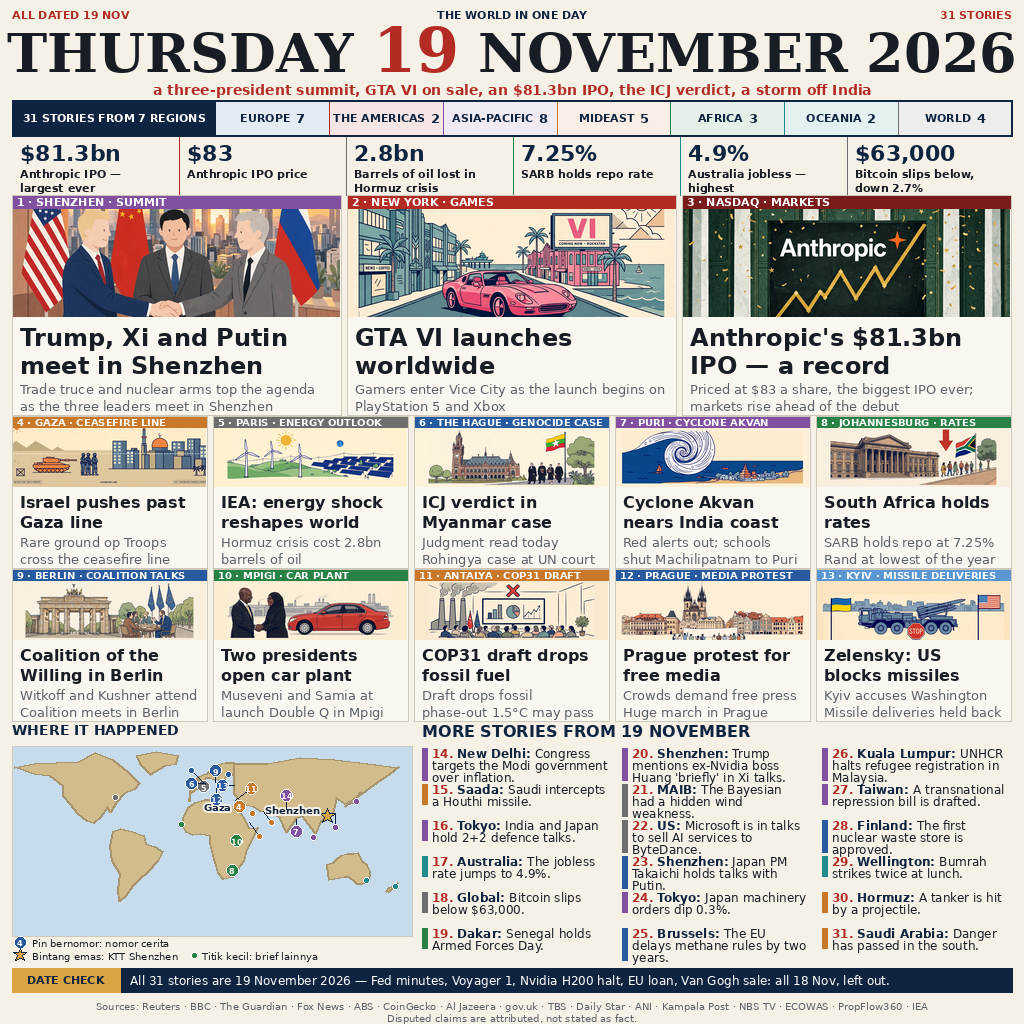
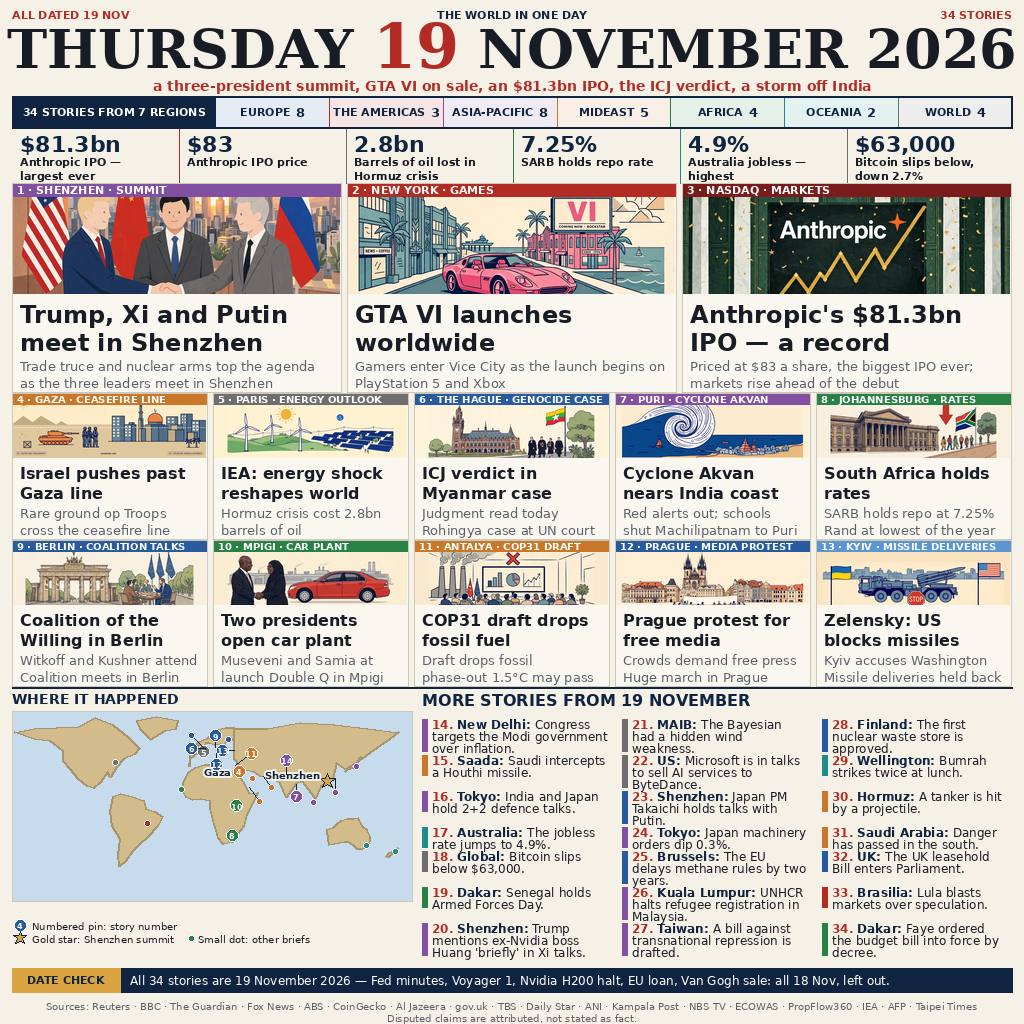
v10 fix: +3 briefs (34 stories), MORE STORIES aligned top-bottom, English legend, divider line
- +3 briefs: 32. UK (leasehold Bill enters Parliament, 19 Nov), 33. Brasilia (Lula blasts markets over speculation, Reuters 19 Nov), 34. Dakar (Faye orders budget into force by decree, AFP/Reuters 19 Nov). TOTAL 31->34; EUROPE 8, AMERICAS 3, AFRICA 4.
- MORE STORIES now 7 rows/col with VARIABLE row heights (tallest brief in the row x leading): all rows start at the same y in all 3 columns; columns start y=719 and end y=956-959 (3px = descender on 'briefly', baselines equal). Row 7 fixed to 3/3/3 lines by lengthening briefs 27 (Taiwan) and 34 (Dakar).
- Fit: masthead 100->96, region bar 36->32, numbers 58->54, hero img 121->110 (box 220->209), card img 70->64 (box 152->146). Briefs stay 12pt; map stays 400x190. Subjects verified whole at display size.
- Small top/bottom margins for MORE STORIES (Kevin 07:28 WIB); thin navy 2px divider above the bottom band (Kevin 07:31 WIB); map legend in English (Kevin 07:29 WIB).
- Rejected after verification: Estonia border shut (announced 15-16 Nov), Spain strike (11 Nov), US senators AI cyber (Reuters 18 Nov), Epstein bill (signed 19 Nov 2025).

diff --git a/compose_v2.py b/compose_v2.py
@@ -157,6 +157,47 @@
 # di ketiga kolom; slack tidak lagi dibagi per kolom (itu yang bikin
 # barisnya zig-zag: kolom 2 rapat 2-6px, kolom 1 renggang 12-16px).
 #
+# v10 changes (20 Nov ~07:30 WIB, Kevin 07:27 + 07:28 + 07:29 + 07:31 WIB):
+#  - +3 brief (total 34 cerita, 21 brief, 7 baris/kolom) supaya 3 kolom
+#    MORE STORIES selaras atas-bawah: London (UK leasehold Bill masuk
+#    Parlemen 19 Nov), Brasilia (Lula kecam pasar atas "spekulasi",
+#    Reuters 19 Nov), Dakar (Faye berlakukan anggaran lewat dekrit,
+#    AFP/Reuters 19 Nov). DITOLAK sesudah verifikasi: Estonia (pengumuman
+#    tutup perbatasan 15-16 Nov, tutupnya 1 Des), Spanyol (mogok umum
+#    11 Nov, bukan 19 Nov), senator AS soal AI (Reuters 18 Nov), Epstein
+#    (RUU diteken 19 Nov 2025, bukan 2026). Region: EUROPE 7->8,
+#    AMERICAS 2->3, AFRICA 3->4; TOTAL 34; DATE CHECK "All 34 stories".
+#  - Baris brief kini TINGGI VARIABEL (baris = brief terpanjang di
+#    baris itu x leading): 6 baris x 36px + 1 baris x 24px = 240px.
+#    Supaya muat, bagian atas dipadatkan 35px TANPA mengecilkan font
+#    dan TANPA mengubah rasio gambar: masthead 100->96, region bar
+#    36->32, numbers strip 58->54, hero image 121->110 (box 220->209),
+#    card image 70->64 (box 152->146). Margin dikit di atas (judul ->
+#    baris pertama) dan di bawah (baris terakhir -> DATE CHECK).
+#  - Legenda peta ke bahasa Inggris (Kevin 07:29 WIB): "Numbered pin:
+#    story number / Gold star: Shenzhen summit / Small dot: other
+#    briefs" — sebelumnya bahasa Indonesia, satu-satunya teks
+#    non-Inggris di gambar. Legenda kini di tengah vertikal di
+#    ruangnya.
+#  - Garis pembatas navy 2px selebar penuh band bawah, tepat di atas
+#    judul WHERE IT HAPPENED / MORE STORIES (Kevin 07:31 WIB).
+#  - Brasilia ditambah ke PLACES (-47.9, -15.8) untuk dot brief 33;
+#    dot brief 32 (label "UK", koordinat London) tabrakan pin Den Haag
+#    (jarak ~5px < 9px) jadi di-skip oleh compositor (tercatat di log);
+#    dot Dakar ke-2 di-skip karena koordinat sama dengan dot Dakar
+#    brief 19. Label brief 32 "UK" (bukan "London") supaya teksnya
+#    muat 2 baris — mengikuti konvensi brief 22 ("US: Microsoft…").
+#    KOREKSI susun kolom: brief baru 32-34 masuk kolom 3 (bukan baris
+#    ke-7 tiap kolom) — baris ke-7 = brief 20, 27, 34. Brief 20
+#    (Shenzhen) 3 baris, jadi brief 27 dan 34 DIPERPANJANG kalimatnya
+#    supaya sama-sama 3 baris dan ketiga kolom berakhir di y yang
+#    sama: 27 "A bill against transnational repression is drafted."
+#    (MOJ kirim draf amandemen Anti-Infiltration Act ke Cabinet;
+#    diumumkan di sidang 18 Nov, dilapor Taipei Times 19 Nov) dan 34
+#    "Faye ordered the budget bill into force by decree." (AFP/
+#    Reuters 19 Nov). Baris ke-7 kini 3/3/3 baris; jumlah baris
+#    total tetap 240px, anggaran band tidak berubah.
+#
 # Run:  python3 compose_v2.py   (needs Pillow; writes entry.png here)
 # The entrypoint main.py only copies entry.png — it never re-renders.
 
@@ -213,8 +254,8 @@ SANS = "/usr/share/fonts/truetype/dejavu/DejaVuSans.ttf"
 
 # ---- geometry (B-rev1, unchanged) ----
 GAP = 1
-HERO_H, HERO_IMG, HERO_HEAD, HERO_DECK = 220, 121, 24, 13
-CARD_H, CARD_IMG, CARD_HEAD, CARD_SUM = 152, 70, 16, 13
+HERO_H, HERO_IMG, HERO_HEAD, HERO_DECK = 209, 110, 24, 13
+CARD_H, CARD_IMG, CARD_HEAD, CARD_SUM = 146, 64, 16, 13
 MAP_W = 400
 BRIEF_NCOLS = 3
 BRIEF_SIZE, BRIEF_LH = 14, 16
@@ -309,11 +350,14 @@ BRIEFS = [
     ("Tokyo", "ASIA", "Japan machinery orders dip 0.3%."),
     ("Brussels", "EUROPE", "The EU delays methane rules by two years."),
     ("Kuala Lumpur", "ASIA", "UNHCR halts refugee registration in Malaysia."),
-    ("Taiwan", "ASIA", "A transnational repression bill is drafted."),
+    ("Taiwan", "ASIA", "A bill against transnational repression is drafted."),
     ("Finland", "EUROPE", "The first nuclear waste store is approved."),
     ("Wellington", "OCEANIA", "Bumrah strikes twice at lunch."),
     ("Hormuz", "MIDEAST", "A tanker is hit by a projectile."),
     ("Saudi Arabia", "MIDEAST", "Danger has passed in the south."),
+    ("UK", "EUROPE", "The UK leasehold Bill enters Parliament."),
+    ("Brasilia", "AMERICAS", "Lula blasts markets over speculation."),
+    ("Dakar", "AFRICA", "Faye ordered the budget bill into force by decree."),
 ]
 
 # Big numbers strip (number, caption, region of the divider colour).
@@ -326,16 +370,16 @@ NUMBERS = [
     ("$63,000", "Bitcoin slips below, down 2.7%", "WORLD"),
 ]
 
-COUNTS = [("EUROPE", 7), ("THE AMERICAS", 2), ("ASIA-PACIFIC", 8),
-          ("MIDEAST", 5), ("AFRICA", 3), ("OCEANIA", 2), ("WORLD", 4)]
-TOTAL = 31
+COUNTS = [("EUROPE", 8), ("THE AMERICAS", 3), ("ASIA-PACIFIC", 8),
+          ("MIDEAST", 5), ("AFRICA", 4), ("OCEANIA", 2), ("WORLD", 4)]
+TOTAL = 34
 
-DATECHECK_MSG = ("All 31 stories are 19 November 2026 — Fed minutes, "
+DATECHECK_MSG = ("All 34 stories are 19 November 2026 — Fed minutes, "
                  "Voyager 1, Nvidia H200 halt, EU loan, Van Gogh sale: "
                  "all 18 Nov, left out.")
 SOURCES_LINE = ("Sources: Reuters · BBC · The Guardian · Fox News · ABS · "
                 "CoinGecko · Al Jazeera · gov.uk · TBS · Daily Star · ANI · "
-                "Kampala Post · NBS TV · ECOWAS · PropFlow360 · IEA")
+                "Kampala Post · NBS TV · ECOWAS · PropFlow360 · IEA · AFP · Taipei Times")
 
 # ---- map data ----
 # Simplified continent outlines (lon, lat), equirectangular.
@@ -397,6 +441,7 @@ PLACES = {
     "Shenzhen": (114.1, 22.5),
     "New Delhi": (77.2, 28.6),
     "London": (-0.1, 51.5),
+    "UK": (-0.1, 51.5),  # v10: label brief 32 (sama koordinat London)
     "UK": (-0.1, 51.5),
     "US": (-77.0, 38.9),
     "China": (116.4, 39.9),
@@ -411,6 +456,7 @@ PLACES = {
     "Antalya": (30.7, 36.9),
     "Dakar": (-17.4, 14.7),
     "Paris": (2.35, 48.85),  # v9: kartu 5 IEA WEO (markas IEA, Paris)
+    "Brasilia": (-47.9, -15.8),  # v10: dot brief 33 (Lula, Reuters 19 Nov)
 }
 
 # Hand-tuned pin offsets (dx, dy in px) so clustered pins do not
@@ -721,9 +767,9 @@ def draw_map_legend(d, x, y_top, w, y_bottom):
     f_txt = load(SANS, 11)
     f_num = load(SANS_B, 8)
     rows = [
-        ("pin", "Pin bernomor: nomor cerita"),
-        ("star", "Bintang emas: KTT Shenzhen"),
-        ("dot", "Titik kecil: brief lainnya"),
+        ("pin", "Numbered pin: story number"),
+        ("star", "Gold star: Shenzhen summit"),
+        ("dot", "Small dot: other briefs"),
     ]
     lh = 18
     y = y_top + (y_bottom - y_top - len(rows) * lh) // 2
@@ -746,38 +792,39 @@ def draw_map_legend(d, x, y_top, w, y_bottom):
 def draw_map_legend_compact(d, x, y_top, w, y_bottom):
     """Compact 2-line legend (v8, preview A): the map is 190 px tall,
     so only ~26 px remain under it. Row 1: numbered pin. Row 2: gold
-    star + small dot, side by side."""
+    star + small dot, side by side. v10: English text (Kevin 07:29 WIB)
+    and vertically centred in the leftover space."""
     f_txt = load(SANS, 10)
     f_num = load(SANS_B, 8)
-    y = y_top
+    y = y_top + (y_bottom - y_top - 26) // 2
     cy = y + 6
     d.ellipse([x + 2, cy - 6, x + 14, cy + 6],
               fill=(40, 90, 160), outline=WHITE, width=1)
     tw = d.textlength("4", font=f_num)
     d.text((x + 8 - tw / 2, cy - 4), "4", font=f_num, fill=WHITE)
-    d.text((x + 20, y + 1), "Pin bernomor: nomor cerita", font=f_txt,
+    d.text((x + 20, y + 1), "Numbered pin: story number", font=f_txt,
            fill=INK)
     y += 13
     cy = y + 6
     d.polygon(star_points(x + 8, cy, 7, 3), fill=GOLD, outline=NAVY)
     tx = x + 20
-    d.text((tx, y + 1), "Bintang emas: KTT Shenzhen", font=f_txt, fill=INK)
-    tx += d.textlength("Bintang emas: KTT Shenzhen", font=f_txt) + 12
+    d.text((tx, y + 1), "Gold star: Shenzhen summit", font=f_txt, fill=INK)
+    tx += d.textlength("Gold star: Shenzhen summit", font=f_txt) + 12
     d.ellipse([tx + 2, cy - 3, tx + 8, cy + 3],
               fill=(40, 130, 70), outline=WHITE, width=1)
     tx += 12
-    d.text((tx, y + 1), "Titik kecil: brief lainnya", font=f_txt, fill=INK)
+    d.text((tx, y + 1), "Small dot: other briefs", font=f_txt, fill=INK)
 
 
 # ---- page sections ----
 def draw_chrome(d):
-    """Top line + masthead + deck. Returns y=100."""
+    """Top line + masthead + deck. Returns y=96 (v10: was 100)."""
     d.text((12, 8), "ALL DATED 19 NOV", font=load(SANS_B, 11), fill=RED)
     d.text((W // 2, 8), "THE WORLD IN ONE DAY", font=load(SANS_B, 11),
            fill=NAVY, anchor="ma")
     d.text((1012, 8), f"{TOTAL} STORIES", font=load(SANS_B, 11), fill=RED,
            anchor="ra")
-    y_base = 72
+    y_base = 68
     w1 = d.textlength("THURSDAY ", font=load(SERIF, 54))
     w2 = d.textlength("19", font=load(SERIF, 62))
     w3 = d.textlength(" NOVEMBER 2026", font=load(SERIF, 54))
@@ -790,13 +837,13 @@ def draw_chrome(d):
            fill=INK, anchor="ls")
     deck = ("a three-president summit, GTA VI on sale, "
             "an $81.3bn IPO, the ICJ verdict, a storm off India")
-    d.text((W // 2, 82), deck, font=load(SANS_B, 14), fill=RED, anchor="ma")
-    return 100
+    d.text((W // 2, 78), deck, font=load(SANS_B, 14), fill=RED, anchor="ma")
+    return 96
 
 
 def draw_region_bar(d, y):
-    """Navy title cell + 7 region-tinted segments. Returns y + 36."""
-    hgt = 36
+    """Navy title cell + 7 region-tinted segments. Returns y + 32 (v10)."""
+    hgt = 32
     x0, x1 = 12, 1012
     title_w = 204
     d.rectangle([x0, y, x0 + title_w, y + hgt], fill=NAVY)
@@ -831,16 +878,16 @@ def draw_region_bar(d, y):
 
 def draw_numbers(d, y0):
     """Six big numbers with captions, no boxes, thin region-coloured
-    dividers between segments. Returns y0 + 58."""
-    hgt = 58
+    dividers between segments. Returns y0 + 54 (v10: was 58)."""
+    hgt = 54
     x = 12
     for i, (num, label, region) in enumerate(NUMBERS):
         bw = 163 if i < 5 else 165
         rc = REGION_COLORS[region]
-        d.text((x + 8, y0 + 3), num, font=load(SANS_B, 22), fill=NAVY)
+        d.text((x + 8, y0 + 2), num, font=load(SANS_B, 22), fill=NAVY)
         clines = wrap(d, label, load(SANS_B, 11), bw - 16, 2)
         assert "…" not in "".join(clines), f"number caption cut: {label}"
-        cy = y0 + 30
+        cy = y0 + 26
         for ln in clines:
             d.text((x + 8, cy), ln, font=load(SANS_B, 11), fill=INK)
             cy += 14
@@ -890,9 +937,18 @@ def draw_card(canvas, d, x, y, w, card, strip_color, row, col):
 
 
 def draw_briefs(d, x, y, w, total_h):
-    """MORE STORIES: 3 even columns of 6 briefs each, "N. City: text…"
-    with the number red bold and the city navy bold. Returns y+total_h."""
-    d.text((x, y), "MORE STORIES FROM 19 NOVEMBER",
+    """MORE STORIES: 3 even columns of 7 briefs each, "N. City: text…"
+    with the number red bold and the city navy bold. Returns y+total_h.
+    v10: rows are VARIABLE height (tallest brief in the row x leading),
+    so row k starts at the same y in all three columns and all three
+    columns end at the same y. Small margins above the first row and
+    below the last row (Kevin 07:28 WIB); the title sits below the
+    divider line drawn by build() (Kevin 07:31 WIB)."""
+    TITLE_DY = 4
+    TITLE_ZONE = 20
+    M_TOP = 6
+    M_BOTTOM = 6
+    d.text((x, y + TITLE_DY), "MORE STORIES FROM 19 NOVEMBER",
            font=load(SANS_B, 16), fill=NAVY)
     col_w = (w - (BRIEF_NCOLS - 1) * 12) // BRIEF_NCOLS
     measured = []
@@ -908,27 +964,26 @@ def draw_briefs(d, x, y, w, total_h):
     per = len(BRIEFS) // BRIEF_NCOLS
     groups = [list(range(i * per, (i + 1) * per)) for i in
               range(BRIEF_NCOLS)]
-    avail = total_h - 24
-    # v9 (Kevin 07:14 WIB: "jangan ada gap, 3 kolom harus sama atas
-    # bawahnya"): FIXED ROW HEIGHT. v8 spread each column's slack
-    # over its own gaps, so the rows zig-zagged (measured on v8:
-    # col 1 gaps 12-16 px, col 2 gaps 2-6 px, col 3 gaps 10-13 px)
-    # even though tops (748) and bottoms (966) already matched.
-    # Every row is now exactly 3 lines tall, so row k starts at the
-    # same y in all three columns, tops and bottoms match, and the
-    # gaps are uniform. A brief of fewer lines leaves its empty
-    # space inside its own row (even leading, like a table).
-    row_h = 3 * BRIEF_LH
     assert all(len(lines) <= 3 for (_, _, _, _, _, lines) in measured), \
         "brief over 3 lines"
-    assert 6 * row_h <= avail, \
-        f"briefs do not fit: {6 * row_h} > {avail}"
+    nrows = per
+    row_hs = [max(len(measured[i][5]) for i in
+                  [g[r] for g in groups]) * BRIEF_LH for r in range(nrows)]
+    avail = total_h - TITLE_DY - TITLE_ZONE - M_TOP - M_BOTTOM
+    assert sum(row_hs) <= avail, \
+        f"briefs do not fit: {sum(row_hs)} > {avail}"
+    # leftover slack (if any) lands in the bottom margin.
+    row_ys = []
+    yy = y + TITLE_DY + TITLE_ZONE + M_TOP
+    for rh in row_hs:
+        row_ys.append(yy)
+        yy += rh
     for ci, idxs in enumerate(groups):
         chunk = [measured[i] for i in idxs]
         bx = x + ci * (col_w + 12)
         for si, (city, region, num_txt, city_txt, head_w, lines) in \
                 enumerate(chunk):
-            by = y + 24 + si * row_h
+            by = row_ys[si]
             ch = len(lines) * BRIEF_LH
             rc = REGION_COLORS[region]
             d.rectangle([bx, by + 2, bx + 5, by + ch - 2], fill=rc)
@@ -1040,6 +1095,8 @@ def build():
 
     bottom_y = y
     bottom_h = 964 - bottom_y
+    # v10 (Kevin 07:31 WIB): thin navy divider above the bottom band.
+    d.rectangle([12, bottom_y, 1012, bottom_y + 1], fill=NAVY)
     map_top = bottom_y + 24
     map_im, mlog = draw_map(MAP_W, MAP_H)
     canvas.paste(map_im, (12, map_top))
@@ -1070,7 +1127,7 @@ def build():
     used = draw_briefs(d, bx, bottom_y, bw, bottom_h)
     assert used == bottom_y + bottom_h, (used, bottom_y + bottom_h)
     print(f"  briefs: {chosen[0]}pt/{chosen[1]}px lh")
-    d.text((12, bottom_y), "WHERE IT HAPPENED", font=load(SANS_B, 14),
+    d.text((12, bottom_y + 4), "WHERE IT HAPPENED", font=load(SANS_B, 14),
            fill=NAVY)
 
     draw_datecheck(d, 968)

diff --git a/STORIES.md b/STORIES.md
@@ -1,7 +1,7 @@
-# news-image-20261119 — final entry v2, 31 stories
+# news-image-20261119 — final entry v2, 34 stories
 
 One image summing up the world's news of **Thursday 19 November 2026**.
-All 31 stories are dated 19 November 2026; 18 November items (Fed
+All 34 stories are dated 19 November 2026; 18 November items (Fed
 minutes, Voyager 1, Nvidia H200 halt, EU loan, Van Gogh sale) were left
 out on purpose and are named in the DATE CHECK strip on the image.
 
@@ -45,7 +45,7 @@ out on purpose and are named in the DATE CHECK strip on the image.
     Kyiv accuses Washington; missile deliveries held back.
     (Reuters, The Guardian)
 
-## Briefs (18)
+## Briefs (21)
 
 14. **New Delhi:** Congress targets Modi government over inflation.
 15. **Saada:** Saudi intercepts a Houthi missile.
@@ -61,17 +61,24 @@ out on purpose and are named in the DATE CHECK strip on the image.
 24. **Tokyo:** Japan machinery orders dip 0.3%.
 25. **Brussels:** The EU delays methane rules by two years.
 26. **Kuala Lumpur:** UNHCR halts refugee registration in Malaysia.
-27. **Taiwan:** A transnational repression bill is drafted.
+27. **Taiwan:** A bill against transnational repression is drafted.
 28. **Finland:** The first nuclear waste store is approved.
 29. **Wellington:** Bumrah strikes twice at lunch.
 30. **Hormuz:** A tanker is hit by a projectile.
 31. **Saudi Arabia:** Danger has passed in the south. (Reuters,
     19 Nov 2026 — see the note below.)
+32. **UK:** The UK leasehold Bill enters Parliament. (Commonhold and
+    Leasehold Reform Bill introduced to Parliament 19 Nov 2026;
+    Inside Housing / HOA / gov.uk.)
+33. **Brasilia:** Lula blasts markets over speculation. (Reuters,
+    19 Nov 2026.)
+34. **Dakar:** Faye ordered the budget bill into force by decree.
+    (AFP / Reuters, 19 Nov 2026; Decree No. 2026-2416.)
 
 ## What changed from the v1 entry (39 stories)
 
 - The layout follows the approved 2-row × 5-column sketch: 3 heroes,
-  10 cards, 18 briefs — 31 stories in all. Text is bigger and fewer
+  10 cards, 21 briefs — 34 stories in all. Text is bigger and fewer
   stories are crammed in, so every headline and brief reads cleanly.
 - **Yemen brief removed.** The sketch carried "Yemen: Houthi rocket
   kills 53 soldiers". Checking it before the build found it happened
@@ -87,7 +94,7 @@ out on purpose and are named in the DATE CHECK strip on the image.
   out.
 - **Uganda card wording fixed.** The sketch read "Museveni and Samia
   open plant"; the entry reads "Museveni and Samia at launch".
-- **DATE CHECK wording fixed.** It now reads "All 31 stories are
+- **DATE CHECK wording fixed.** It now reads "All 34 stories are
   19 November 2026 — Fed minutes, Voyager 1, Nvidia H200 halt, EU
   loan, Van Gogh sale: all 18 Nov, left out."
 - **Map improved.** Continent outlines are 2px, pins are bigger with
@@ -95,8 +102,8 @@ out on purpose and are named in the DATE CHECK strip on the image.
   Taiwan, Saudi Arabia) are skipped on collision and logged by the
   compositor — the stories are still in the briefs and the map still
   shows their region's pins.
-- Region counts: EUROPE 7, THE AMERICAS 2, ASIA-PACIFIC 8,
-  MIDEAST 5, AFRICA 3, OCEANIA 2, WORLD 4 — 31 in all.
+- Region counts: EUROPE 8, THE AMERICAS 3, ASIA-PACIFIC 8,
+  MIDEAST 5, AFRICA 4, OCEANIA 2, WORLD 4 — 34 in all.
 
 ## How the image was made
 
@@ -231,3 +238,30 @@ ketiga kolom, atas dan bawah rata (sisa: baris terakhir kolom 2
 berakhir 12 px lebih bawah karena brief Brussels 3 baris vs Dakar/
 Saudi Arabia 2 baris — tidak bisa diratakan tanpa ubah teks brief).
 Hero, kartu lain, peta, DATE CHECK tidak berubah.
+
+v10 (20 Nov ~08:00 WIB, Kevin 07:27 + 07:28 + 07:29 + 07:31 WIB):
++3 briefs (32. UK, 33. Brasilia, 34. Dakar) supaya ketiga kolom MORE
+STORIES selaras atas-bawah — 21 briefs, 7 baris per kolom, 34 cerita;
+region EUROPE 8, THE AMERICAS 3, AFRICA 4. Baris brief kini TINGGI
+VARIABEL (brief terpanjang di baris itu × leading): tiap baris mulai di
+y yang sama di ketiga kolom; kolom mulai y=719 dan berakhir y=956–959
+(selisih 3 px hanya descender huruf "y" di "briefly", baseline sama).
+Baris ke-7 kini 3/3/3 baris: brief 27 ditulis ulang ("A bill against
+transnational repression is drafted." — draf amandemen Anti-Infiltration
+Act dikirim MOJ ke Cabinet, diumumkan di sidang 18 Nov, dilapor Taipei
+Times 19 Nov) dan brief 34 diperpanjang ("Faye ordered the budget bill
+into force by decree.") supaya sama dengan 3 baris brief 20. Brief 32
+dilabel "UK" (bukan "London") supaya muat 2 baris, mengikuti label
+"US" di brief 22; dot-nya di-skip karena tabrakan pin Den Haag dan
+tercatat di log. Supaya baris ke-7 muat, bagian atas dipadatkan 35 px
+tanpa mengecilkan font dan tanpa mengubah peta: masthead 100→96,
+region bar 36→32, numbers strip 58→54, gambar hero 121→110 (box
+220→209), gambar kartu 70→64 (box 152→146) — semua subjek hero/kartu
+dicek ulang utuh di ukuran tampil. Margin dikit di atas baris brief
+pertama dan di bawah baris terakhir; garis pembatas navy 2 px di atas
+band bawah; legenda peta bahasa Inggris ("Numbered pin: story number /
+Gold star: Shenzhen summit / Small dot: other briefs"). Sources tambah
+AFP dan Taipei Times. DITOLAK sesudah verifikasi: Estonia tutup
+perbatasan (diumumkan 15–16 Nov, tutupnya 1 Des), mogok umum Spanyol
+(11 Nov), senator AS soal ancaman siber AI (Reuters 18 Nov), RUU
+Epstein (diteken 19 Nov 2025, bukan 2026).
